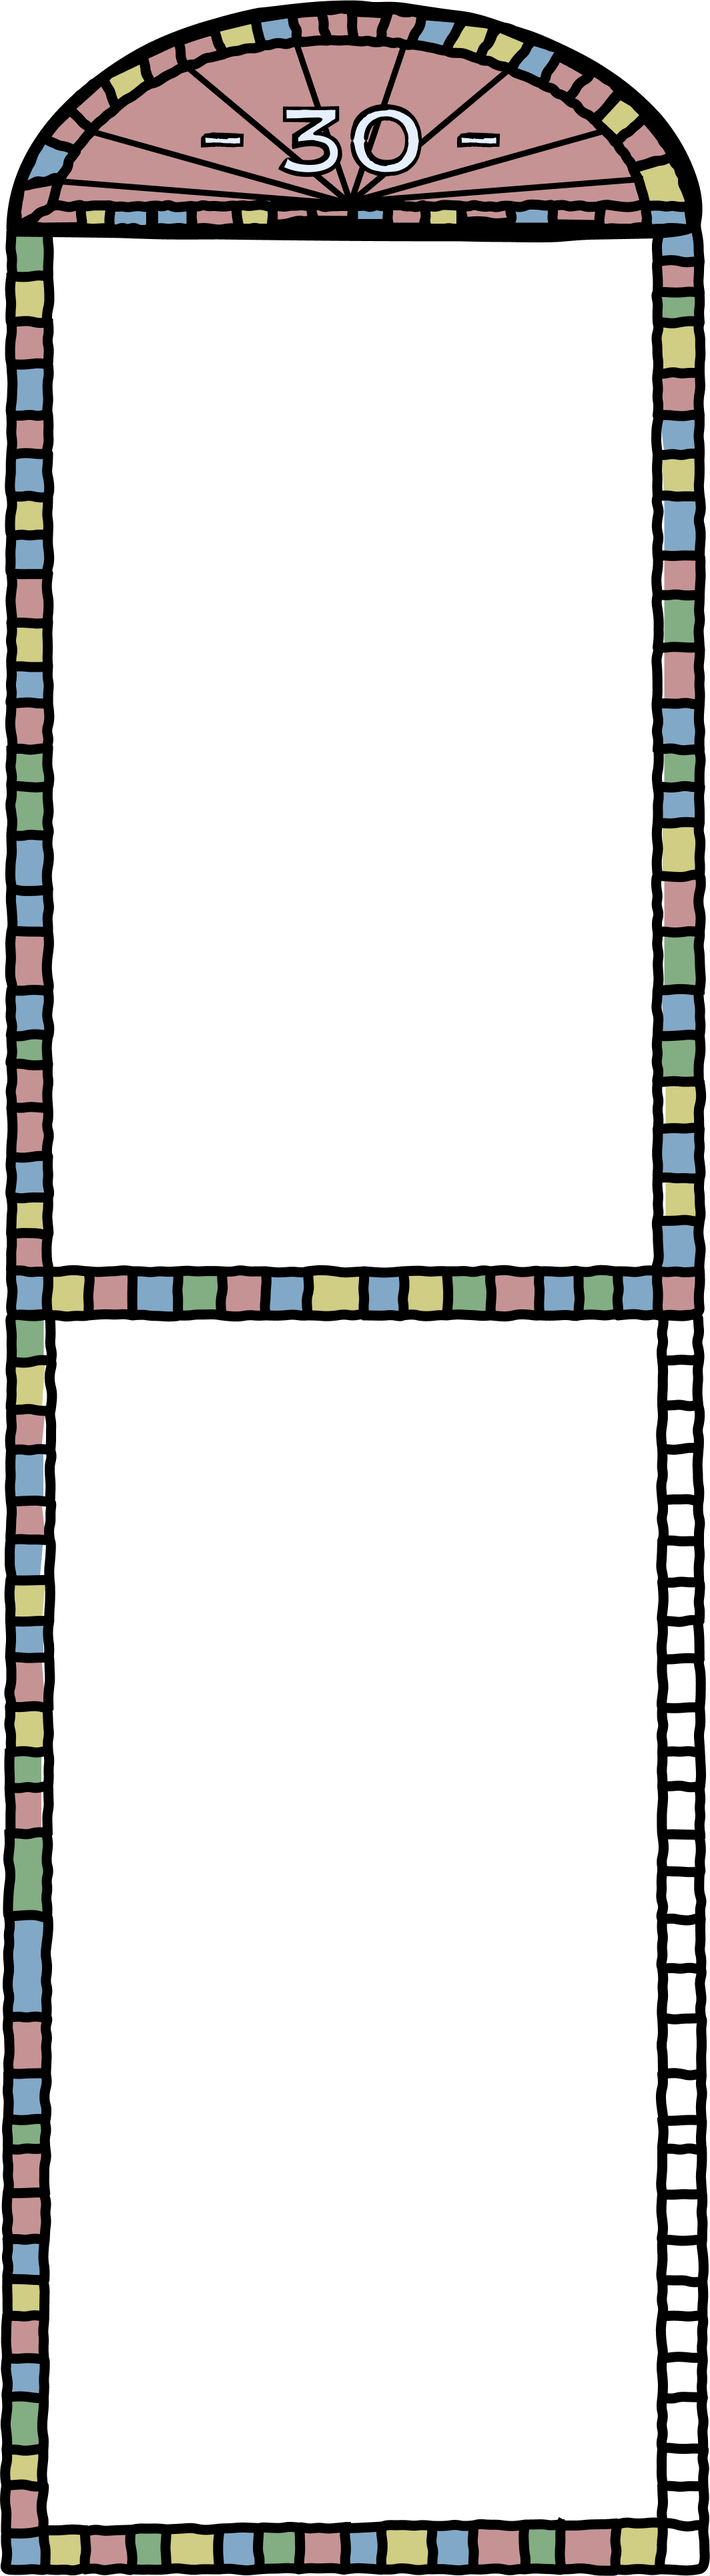
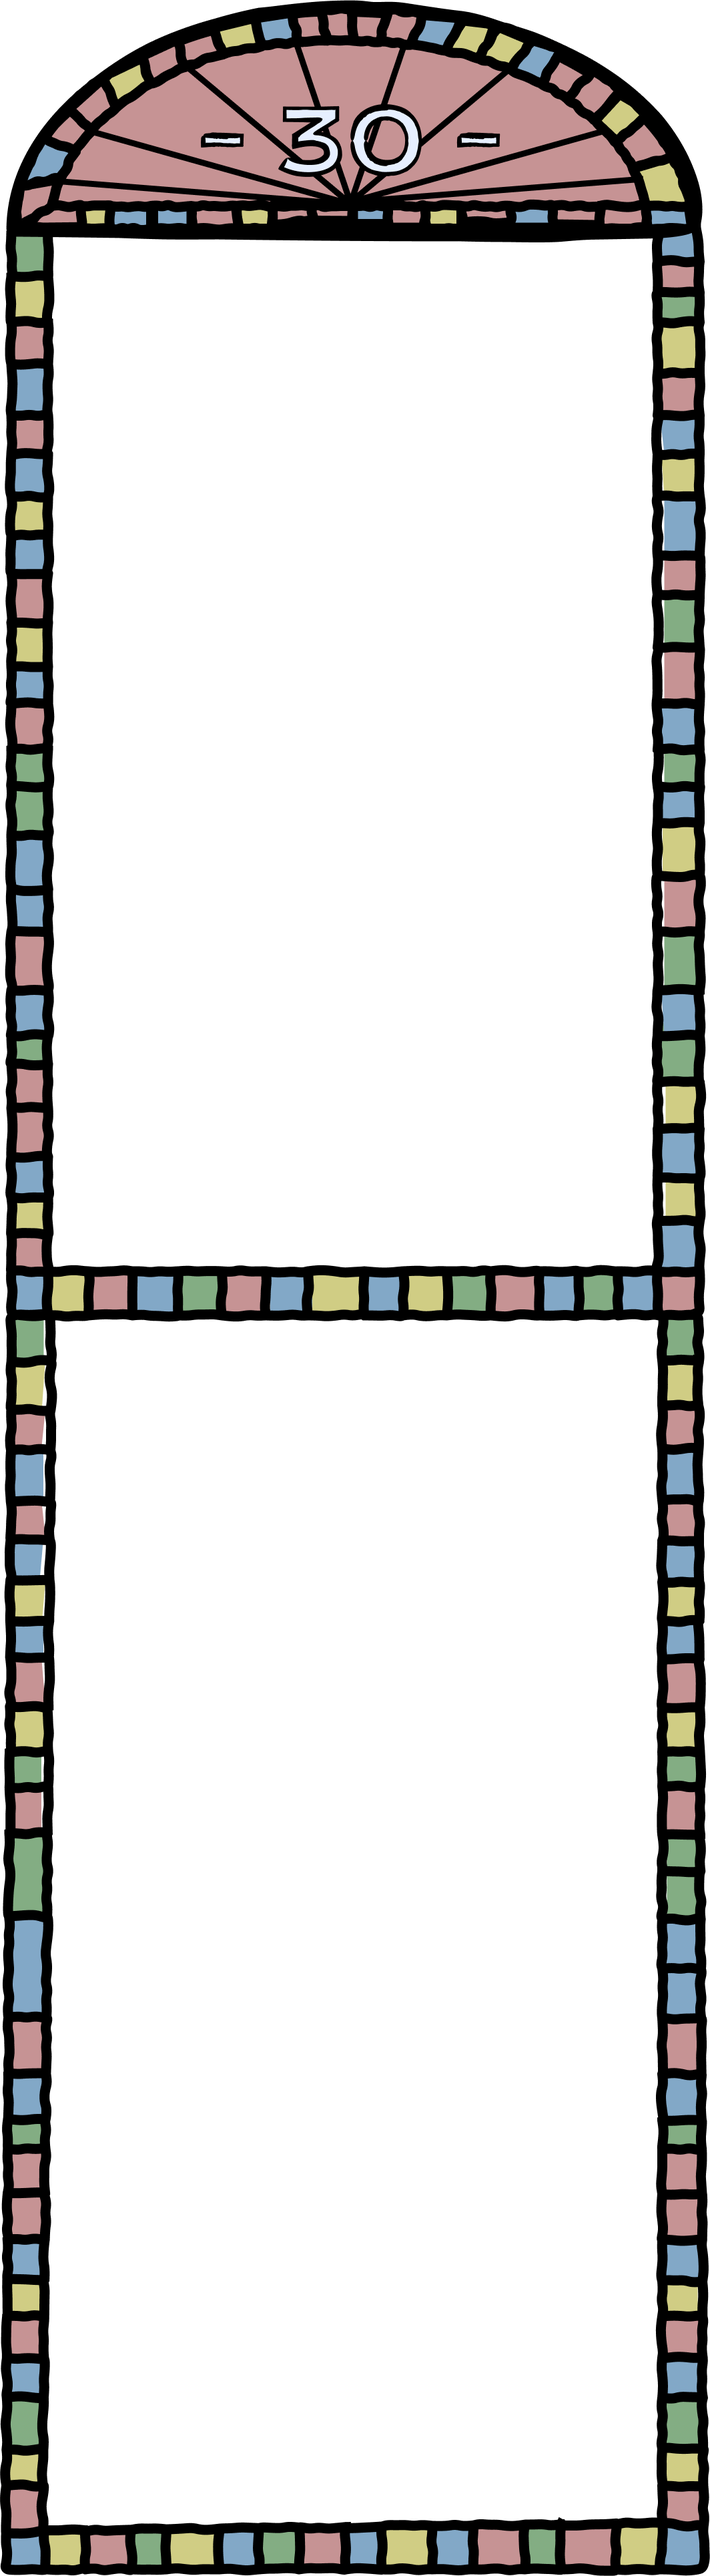
formatted 30, fixed scaling (custom for each window), filled whitespace.

Changed region(s): [[0.9305, 0.4977, 0.9925, 0.9953]]

diff --git a/src/components/Window.js b/src/components/Window.js
@@ -1,6 +1,6 @@
 import ArticleCard from "./ArticleCard";
 import { useState, useEffect } from "react";
-import { CARD_BACK_HEIGHT, WINDOW_WIDTH } from "./constants.js";
+import { CARD_BACK_HEIGHT, CARD_BACK_WIDTH, WINDOW_WIDTH } from "./constants.js";
 
 const Window = ({
   backgroundImage,
@@ -10,6 +10,8 @@ const Window = ({
   topOffset = 350,
   incCardHeightBy = 0,  // Used to fill out inside the window by barely changing card height
   isLarge = false,
+  is30 = false,
+  shrinksAt = WINDOW_WIDTH
 }) => {
   const [isMobile, setIsMobile] = useState(false);
   const [windowWidth, setWindowWidth] = useState(window.innerWidth);
@@ -33,8 +35,9 @@ const Window = ({
   }, []);
 
   // calculate how much we should scale it by depending on what our window width is
-  const scale = Math.min(windowWidth / WINDOW_WIDTH, 1);
+  const scale = Math.min(windowWidth / shrinksAt, 1);
   const scaledTopOffset = topOffset * scale;
+  const thirtyMidPaneHeight = 75 * scale;
 
   // this is what we had before, except everything is more dynamic now
   const containerStyle = {
@@ -100,7 +103,13 @@ const Window = ({
           />
           <div style={overlayContainer}>
             {rows.map((row, rowIndex) => (
-              <div key={rowIndex} style={flexOverlayRow}>
+              <>
+                {/* Add a space after 5 rows only for 30 window */}
+                {is30 && rowIndex==5 && (
+                  <div style={{ height: thirtyMidPaneHeight }} />  // Height of middle pane for 30
+                )}
+
+                <div key={rowIndex} style={flexOverlayRow}>
                 {row.map((article, cardIndex) => (
                   <ArticleCard
                     key={`${rowIndex}-${cardIndex}`}
@@ -114,10 +123,21 @@ const Window = ({
                     isPlaceholder={article.isPlaceholder}
                     placeholderColor={article.placeholderColor}
                     windowWidth={windowWidth}
-                    cardHeight={CARD_BACK_HEIGHT + incCardHeightBy}
+                    cardWidth={!is30 ? CARD_BACK_WIDTH : CARD_BACK_WIDTH + 5}  // To fill in whitespace in 30 window
+                    cardHeight={
+                      !is30 ?
+                        CARD_BACK_HEIGHT + incCardHeightBy
+                      // Reason for this below - bottom half of 30 window is smaller than top half
+                      : (rowIndex <= 4) ?  // Top half of 30 window: don't change card height
+                        CARD_BACK_HEIGHT
+                      : // Bottom half of 30 window: smudge cards together more vertically
+                        CARD_BACK_HEIGHT - 7  
+                    }
+                    shrinksAt={shrinksAt}
                   />
                 ))}
               </div>
+            </>
             ))}
           </div>
         </div>

diff --git a/src/components/ArticleCard.js b/src/components/ArticleCard.js
@@ -13,19 +13,21 @@ const ArticleCard = ({
   isPlaceholder = false,
   placeholderColor = "#ccc",
   windowWidth = 1200,
+  cardWidth = CARD_BACK_WIDTH,
   cardHeight = CARD_BACK_HEIGHT,
+  shrinksAt = WINDOW_WIDTH
 }) => {
   const [isHovered, setIsHovered] = useState(false);
 
   if (isPlaceholder) {
     const baseInner = 260;
-    const scale = Math.min(windowWidth / WINDOW_WIDTH, 1);
+    const scale = Math.min(windowWidth / shrinksAt, 1);
 
     return (
       <div
         style={{
           backgroundColor: "black",
-          width: `${CARD_BACK_WIDTH * scale}px`,
+          width: `${cardWidth * scale}px`,
           height: `${cardHeight * scale}px`,
           display: "flex",
           alignItems: "center",
@@ -59,7 +61,7 @@ const ArticleCard = ({
       };
       // wrote this for prime
     } else if (isLarge) {
-      const scale = Math.min(windowWidth / WINDOW_WIDTH, 1); // same base as others
+      const scale = Math.min(windowWidth / shrinksAt, 1); // same base as others
       return {
         width: 900 * scale,
         height: 900 * scale,
@@ -70,9 +72,9 @@ const ArticleCard = ({
       };
       // "regular" card on a laptop
     } else {
-      const scale = Math.min(windowWidth / WINDOW_WIDTH, 1); // this scaling is to reduce the SIZE of the article cards as the window decreases
+      const scale = Math.min(windowWidth / shrinksAt, 1); // this scaling is to reduce the SIZE of the article cards as the window decreases
       return {
-        width: CARD_BACK_WIDTH * scale,
+        width: cardWidth * scale,
         height: cardHeight * scale,
         innerWidth: 260 * scale,
         innerHeight: 260 * scale,

diff --git a/src/components/ArticleWindows.js b/src/components/ArticleWindows.js
@@ -123,6 +123,7 @@ const News = () => {
       backgroundImage={newsBack}
       windowTitle="NEWS"
       articles={newsArticles}
+      shrinksAt={1051}
     />
   );
 };
@@ -235,6 +236,7 @@ const Sports = () => {
       backgroundImage={sportsBack}
       windowTitle="SPORTS"
       articles={sportsArticles}
+      shrinksAt={1053}
     />
   );
 };
@@ -358,6 +360,7 @@ const Opinion = () => {
       windowTitle="OPINION"
       articles={opinionArticles}
       incCardHeightBy={4}
+      shrinksAt={1051}
     />
   );
 };
@@ -783,6 +786,8 @@ const Thirty = () => {
       backgroundImage={thirtyBack}
       windowTitle="THIRTY"
       articles={thirtyArticles}
+      is30={true}
+      shrinksAt={1064}
     />
   );
 };
